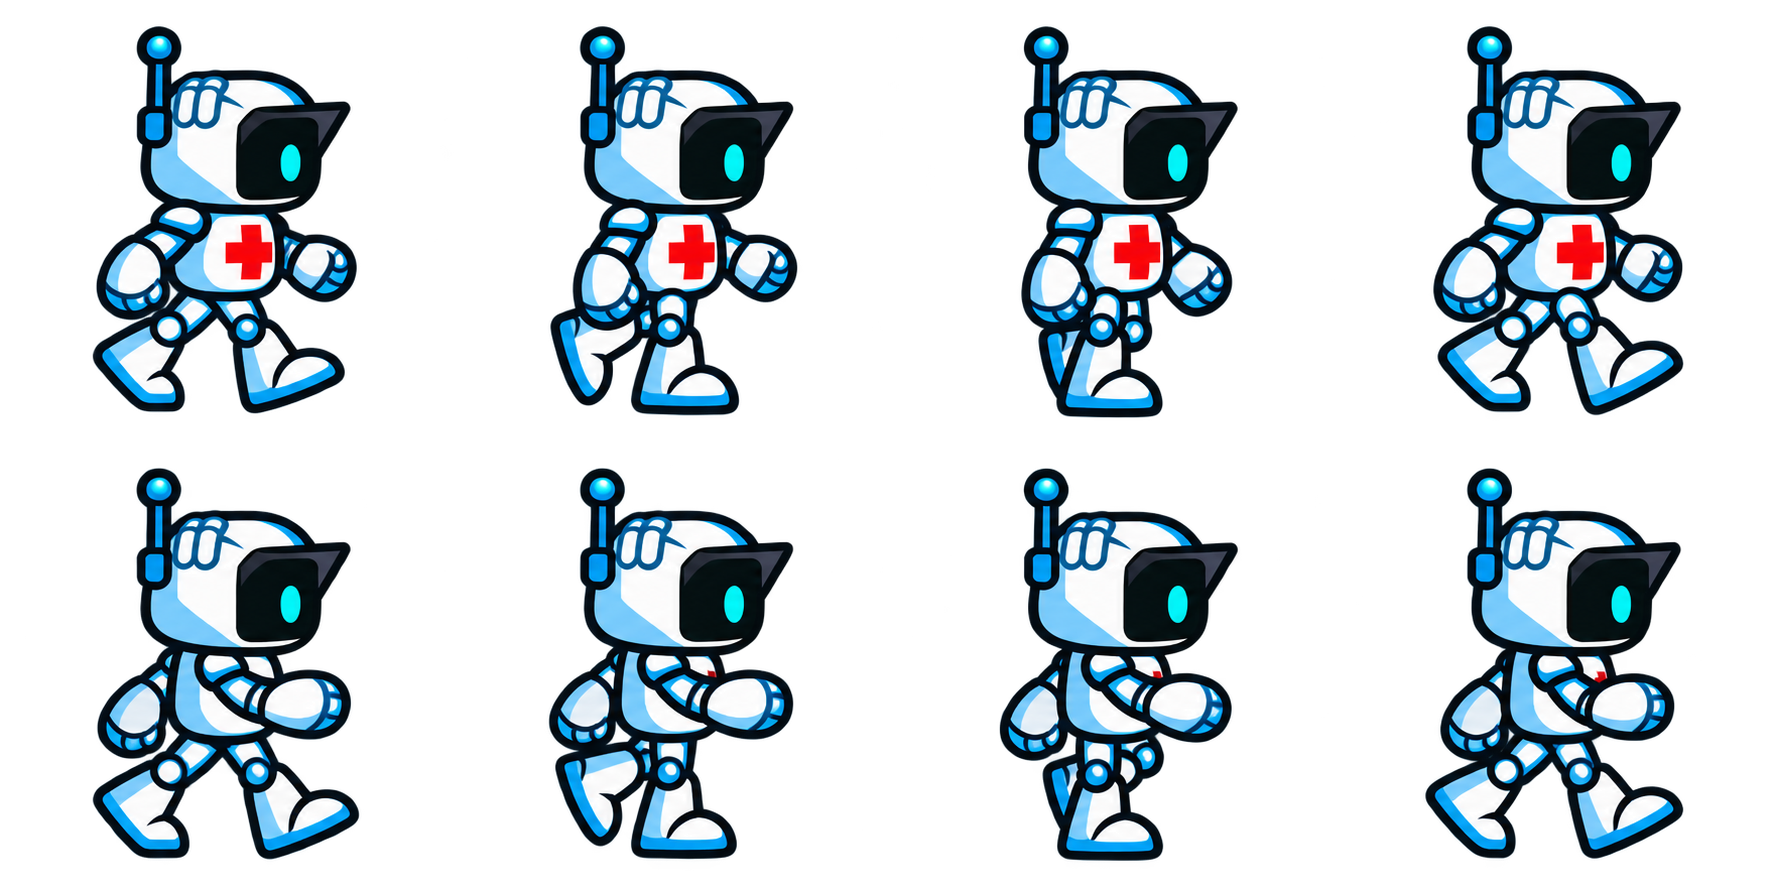
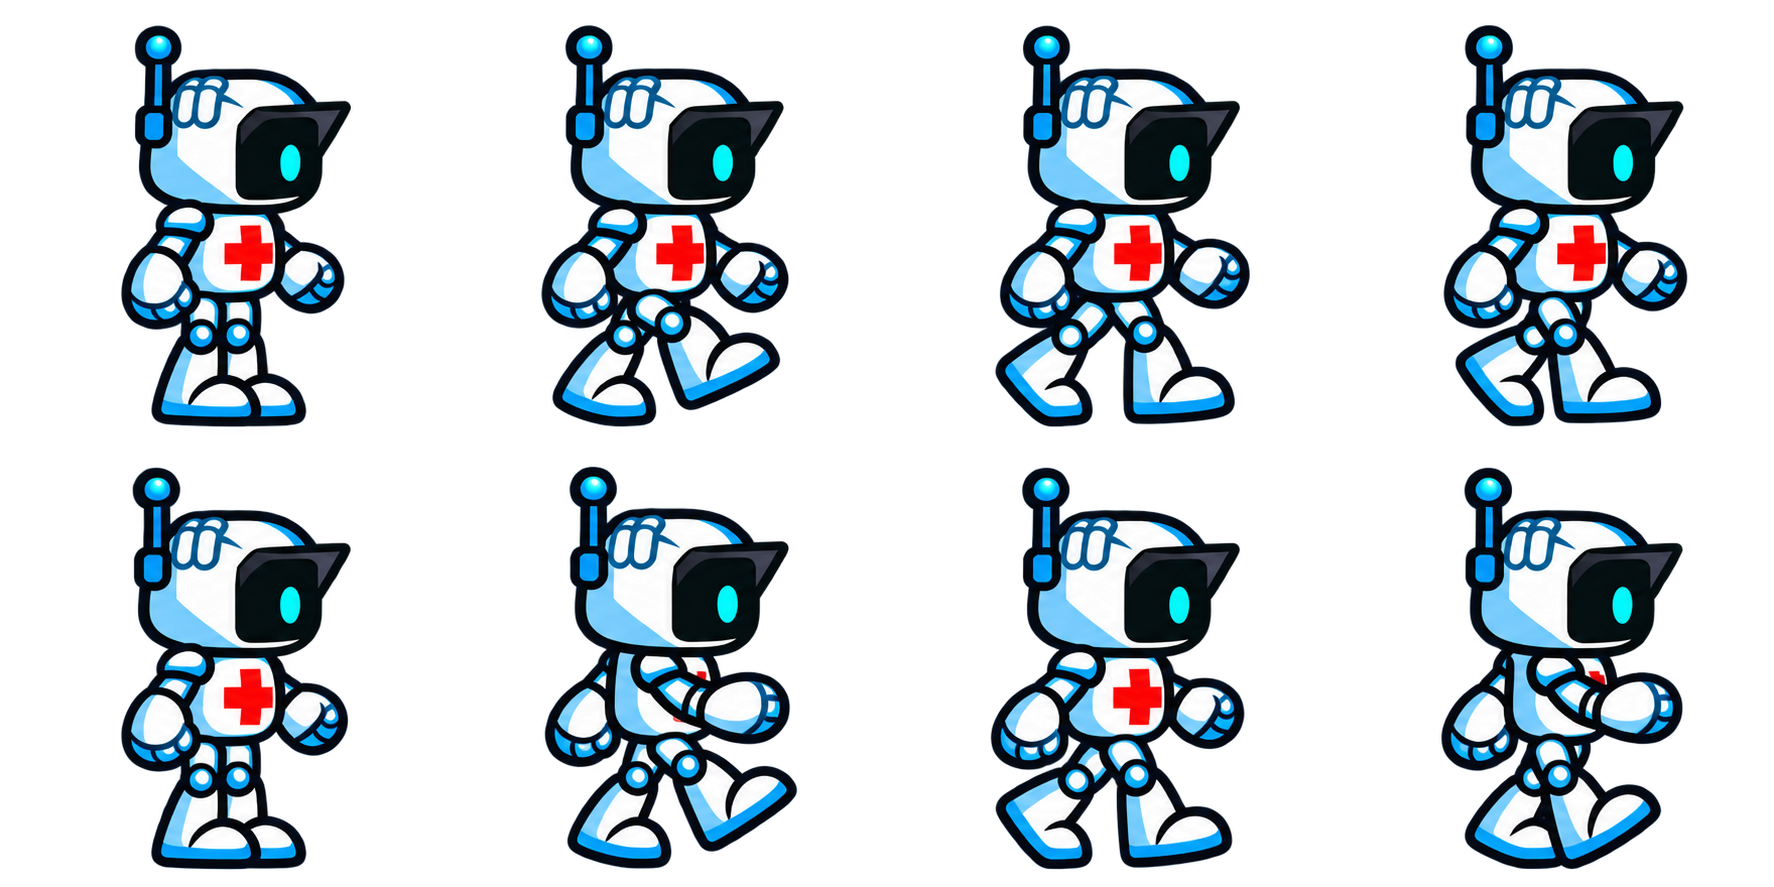
Install regenerated eight-direction MC walking sheets

diff --git a/Assets/Game/Editor/PrototypeBuilder.cs b/Assets/Game/Editor/PrototypeBuilder.cs
@@ -201,9 +201,9 @@ namespace VeinVanguard.Editor
                 typeof(BattleManager).GetMethod("PositionWorld",flags).Invoke(game,null);
                 if((int)typeof(BattleManager).GetField("walkRow",flags).GetValue(game)!=row)throw new Exception("Wrong walking direction: "+row);
                 var image=(UnityEngine.UI.Image)typeof(BattleManager).GetField("worldPlayerImage",flags).GetValue(game);
-                bool mirrored=row==5||row==7;
-                if(image.rectTransform.localScale.x!=(mirrored?-1:1))throw new Exception("Only left diagonals must flip horizontally");
-                if(mirrored&&image.sprite.texture!=Resources.Load<Texture2D>("VeinVanguard/"+(row==5?"WalkDownRight":"WalkUpRight")))throw new Exception("Left diagonal must use right diagonal texture");
+                if(image.rectTransform.localScale!=Vector3.one)throw new Exception("Dedicated direction sheets must not be mirrored");
+                string[] sheets={"WalkDown","WalkRight","WalkLeft","WalkUp","WalkDownRight","WalkDownLeft","WalkUpRight","WalkUpLeft"};
+                if(image.sprite.texture!=Resources.Load<Texture2D>("VeinVanguard/"+sheets[row]))throw new Exception("Direction must use its own sheet: "+sheets[row]);
             }
             game.StartGame();
             var frames=(Sprite[])typeof(BattleManager).GetField("walkFrames",flags).GetValue(game);

diff --git a/Assets/Game/WorldFlow.cs b/Assets/Game/WorldFlow.cs
@@ -38,7 +38,7 @@ namespace VeinVanguard
         void PrepareWalkFrames()
         {
             if(walkFrames!=null)return;
-            string[] sheets={"WalkDown","WalkRight","WalkLeft","WalkUp","WalkDownRight","WalkDownRight","WalkUpRight","WalkUpRight","IdleFront"};
+            string[] sheets={"WalkDown","WalkRight","WalkLeft","WalkUp","WalkDownRight","WalkDownLeft","WalkUpRight","WalkUpLeft","IdleFront"};
             walkFrames=new Sprite[72];
             for(int group=0;group<sheets.Length;group++)
             {
@@ -334,7 +334,7 @@ namespace VeinVanguard
         void PositionWorld()
         {
             worldPlayer.anchoredPosition=MapPoint(worldPosition);
-            worldPlayerImage.rectTransform.localScale=new Vector3(walking&&(walkRow==5||walkRow==7)?-1:1,1,1);
+            worldPlayerImage.rectTransform.localScale=Vector3.one;
             int frame=(int)(Time.unscaledTime*7)%4;
             if(walkFrames!=null)worldPlayerImage.sprite=walkFrames[walking?walkRow*8+(int)(walkTime*12)%8:64+(int)(idleTime*4)%8];
             else if(playerFrames!=null&&playerFrames.Length>0)worldPlayerImage.sprite=playerFrames[0];
